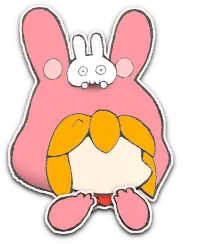
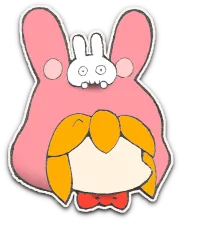
ut_kyogakuに星ver追加と腕分離

Changed region(s): [[0.21, 0.7746, 0.51, 1.0], [0.54, 0.7459, 0.78, 0.9754]]

diff --git a/index.html b/index.html
@@ -332,6 +332,7 @@
                 <img src="cha/ut_kyogaku_odoroki.webp" alt="⚡" class="動作 発射">
                 <img src="cha/ut_kyogaku_me.webp"      alt="👀" class="動作 拍動→目瞬" style="--倍率: 1.2;">
                 <img src="cha/ut_kyogaku_kuchi.webp"   alt="👄" class="動作 口元">
+                <img src="cha/ut_kyogaku_ude.webp"     alt="💪" class="動作 発射→拍動" style="--起点: 50% 90%; --時間2: 0.1s; --倍率: 1.03;">
             </div>
             <div class="💬 高速" data-se="se/odoroki.mp3" data-volume="0.5">
                 ぬわにっ!?<br>
@@ -362,7 +363,7 @@
                 <img src="cha/uf_sizukana-ikari.webp">
                 <img src="cha/uf_sizukana-ikari_kekkan.webp" alt="💢" class="動作 拍動" style="--起点: 33% 55%; --時間: 0.5s;">
             </div>
-            <div class="💬 高速" data-speed="10" style="--左余白: 5%; --左尻尾: -10px;">
+            <div class="💬 高速" data-speed="10" style="--左余白: 5%; --左尻尾: -20px;">
                 <b>・・・・💢</b>
             </div>
         </div>
@@ -561,7 +562,7 @@
                 <img src="cha/da_pyo-n_odoroki.webp" alt="⚡" class="動作 発射" style="--起点: 64% 12%;">
                 <img src="cha/da_pyo-n_kuchi.webp"   alt="👄" class="動作 口元" style="--起点: 50% 60%;">
             </div>
-            <div class="💬 高速" data-se="se/pyo-n.mp3" data-wait="20" style="--起点: top center; --余白右: 0%; --右尻尾: 10px;">
+            <div class="💬 高速" data-se="se/pyo-n.mp3" data-wait="20" style="--起点: top center; --余白右: 0%;">
                 バブみ盛り盛り、<br>チパ〜イ♥
                 <div class="ト書き下" style="margin-right: -100px;">(ユニちゃんに抱きつこうとする)</div>
             </div>
@@ -575,7 +576,7 @@
                     <img src="cha/ud_hammer_hammer.webp" alt="🔨" class="一転"      style="--起点: 60% 79%;">
                 </div>
             </div>
-            <div class="💬 高速" data-se="se/hammer.mp3" style="--左余白: 5%; --左尻尾: 10px;">
+            <div class="💬 高速" data-se="se/hammer.mp3" style="--左余白: 5%;">
                 <b>キモっ！<br>
                 近よゆなでしゅ！</b>
             </div>
@@ -589,8 +590,8 @@
                 <img src="cha/df_tankobu_zukizuki.webp" alt="⚡" class="動作 発射→拍動" style="--時間1: 3s; --起点: 50% 50%; --倍率: 1.15;">
                 <img src="cha/df_tankobu_tankobu.webp"  alt="🤕" class="動作 発射→拍動" style="--時間1: 3s;">
                 <img src="cha/df_tankobu_ude.webp"      alt="💪" class="動作">
-                <div class="動作 振動">
-                    <img src="cha/df_tankobu_ooo.webp"  alt="💨" class="発射"            style="--時間: 30s; --起点: 48% 75%;">
+                <div class="動作 発射" style="--時間: 30s; --起点: 48% 75%;">
+                    <img src="cha/df_tankobu_ooo.webp"  alt="💨" class="拍動" style="--時間: 0.1s; --倍率: 1.02;">
                 </div>
             </div>
             <div class="💬" data-se="se/katakata.mp3" style="--右尻尾: 20px;">
@@ -731,7 +732,7 @@
                 <img src="cha/ua_hatena_kuchi.webp"  alt="👄" class="動作">
                 <img src="cha/ua_hatena_ude.webp"    alt="💪" class="動作">
             </div>
-            <div class="💬" style="--左余白: 6%; --左尻尾: -10px;">
+            <div class="💬" style="--左余白: 6%; --左尻尾: -20px;">
                 ・・・・？
             </div>
         </div>
@@ -750,12 +751,12 @@
         </div>
 
         <div class="🐰">
-            <div class="キャラ画像 身体_縦伸" style="--サイズ: 4%;">
+            <div class="キャラ画像 身体_振動" style="--サイズ: 4%;">
                 <img src="cha/ut_odoroki.webp">
                 <img src="cha/ut_odoroki_me.webp"    alt="👀" class="動作 目瞬" style="--起点: 40% 73%;">
                 <img src="cha/ut_odoroki_kuchi.webp" alt="👄" class="動作">
             </div>
-            <div class="💬" style="--左余白: 5%; --左尻尾: -10px;">
+            <div class="💬 中速" data-se="se/katakata.mp3" style="--左余白: 5%; --左尻尾: -20px;">
                 <b>・・・・！</b>
             </div>
         </div>
@@ -774,11 +775,14 @@
         <div class="🐰">
             <div class="キャラ画像 身体_拍動">
                 <img src="cha/ut_kyogaku.webp">
-                <img src="cha/ut_kyogaku_odoroki.webp" alt="⚡" class="動作 発射">
-                <img src="cha/ut_kyogaku_me.webp"      alt="👀" class="動作 拍動→目瞬">
-                <img src="cha/ut_kyogaku_kuchi.webp"   alt="👄" class="動作 口元">
+                <div class="動作 発射">
+                    <img src="cha/ut_kyogaku_hosi.webp" alt="⭐" class="回転" style="--起点: 87% 31%;">
+                </div>
+                <img src="cha/ut_kyogaku_me.webp"       alt="👀" class="動作 拍動→目瞬">
+                <img src="cha/ut_kyogaku_kuchi.webp"    alt="👄" class="動作 口元">
+                <img src="cha/ut_kyogaku_ude.webp"      alt="💪" class="動作 発射" style="--起点: 50% 90%; --倍率: 1;">
             </div>
-            <div class="💬 中速" data-se="se/odoroki.mp3" data-volume="0.5" style="--左余白: 3%;">
+            <div class="💬 中速" data-se="se/pikon.mp3" style="--左余白: 3%;">
                 なにそれ…!!<br>
                 あああ…そっか…<br>
                 そーでしゅよね…。
@@ -792,7 +796,7 @@
             </div>
             <div class="💬" style="--右尻尾: 25px;">
                 何かを間違ってるとケテーイしたら、イヤな気分はゼターイ不可避。<br>
-                だってそれは、あなたという神による「自己否定のクリエイト」以外の何ものでもないからww
+                だってそれは、あなたという神による「自己拒絶のクリエイト」以外の何ものでもないからww
             </div>
         </div>
 
@@ -827,13 +831,13 @@
                 <img src="cha/ut_hojihoji.webp">
                 <img src="cha/ut_hojihoji_hojihoji.webp" alt="💨" class="動作 発射">
             </div>
-            <div class="💬" style="--左余白: 2%;">
+            <div class="💬">
                 心配すゆな、<br>
                 ドクは権威者じゃないでしゅ。
             </div>
         </div>
 
-        <div class="🥸" style="--間隔: -20px;">
+        <div class="🥸" style="--間隔: -10px;">
             <div class="キャラ画像 身体_縦伸" style="--時間: 0.4s; --被り幅: 5px;">
                 <img src="cha/da_sibuki.webp">
                 <img src="cha/da_sibuki_sibuki.webp" alt="💦" class="動作 発射" style="--起点: 60% 80%;">
